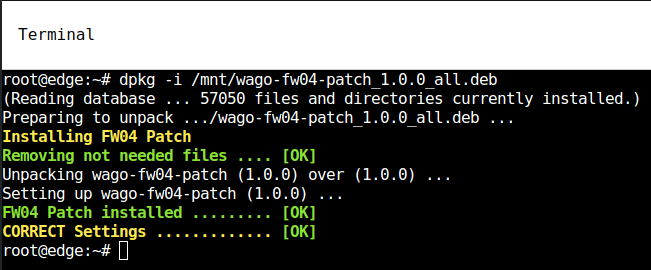
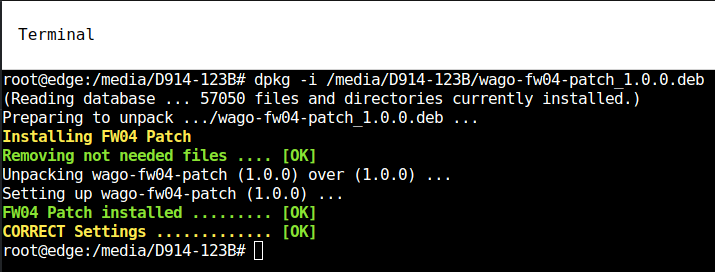
Updated PATCHES readme

Changed region(s): [[0.0, 0.237, 1.0, 0.9778], [0.0, 0.0889, 0.1536, 0.1481], [0.768, 0.4444, 0.7988, 0.4741]]

diff --git a/patches/README.md b/patches/README.md
@@ -7,47 +7,35 @@
 ## Patches
 | Patches | Description |
 | ------- | -------- |
-| wago-fw04-patch_1.0.0_all.deb | [JUMP](#fw04-01) |
+| wago-fw04-patch_1.0.0.deb | [JUMP](#fw04-01) |
 
 ###  How to install a patch:
 
 #### Offline-Mode
  Nedded:  USB disk drive
- 1. Check the latest patch for your firmware [PATCHES DIRECTORY](patches)
+ 1. Check the latest patch for your firmware
  2. Download the patch and copy it to the USB drive.
  3. Attach the USB drive to Edge Computer
  4. Open a browser and connect to Cockpit <pre><code>http://IP_OF_EDGE_COMPUTER:9090</code></pre>
  5. Login as:<pre> USER:root PASSWORD:YOUR_PASSWORD</pre>
  6. Click on Terminal
- 7. Find USB disk drive <pre><code>dmesg</code></pre>
-     You should find something like this:
+ 7. Find USB disk drive name
+    ``
+    cd /media
+    ls 
+    ``
+    Here you see the DEVICE-NAME of the USB disk drive.
+ 8. Installing the patch
      ```
-     [ 8122.243097] scsi 3:0:0:0: Direct-Access     SanDisk  Cruzer Blade     1.00 PQ: 0 ANSI: 6
-     [ 8122.245481] sd 3:0:0:0: Attached scsi generic sg1 type 0
-     [ 8122.267272] sd 3:0:0:0: [sdb] 120225792 512-byte logical blocks: (61.6 GB/57.3 GiB)
-     [ 8122.269240] sd 3:0:0:0: [sdb] Write Protect is off
-     [ 8122.269243] sd 3:0:0:0: [sdb] Mode Sense: 43 00 00 00
-     [ 8122.269601] sd 3:0:0:0: [sdb] Write cache: disabled, read cache: enabled, doesn't support DPO or FUA
-     [ 8122.276476]  sdb: sdb1
-     [ 8122.276716] sd 3:0:0:0: [sdb] Attached SCSI removable disk
-     ```
-     Here you see ``sdb1`` which is the partition
-  8. Mount the partition
-     ```
-     mount /dev/sdb1 /mnt
-     ```
-  9. Installing the patch
-     ```
-     dpkg -i /mnt/PATCH-FILE.deb
+     dpkg -i /media/DEVICE-NAME/PATCH-FILE.deb
      ```
      Example output:
      <p><img src="../images/example.png" alt="example-installation" title="Example-installation" /></p>
 
-  10. Clean up
-      ```
-      umount /mnt
-      ```
-      Detach the USB disk drive
+ 9. Reboot the system
+    ```
+    reboot
+    ```
 
 #### Online-Modus
  1. Open a browser and connect to Cockpit <pre><code>http://IP_OF_EDGE_COMPUTER:9090</code></pre>
@@ -56,7 +44,7 @@
  4. Download the patch
     ```
     cd /tmp
-    wget https://github.com/WAGO/edge-firmware/raw/refs/heads/main/patches/wago-fw04-patch_1.0.0_all.deb
+    wget https://github.com/WAGO/edge-firmware/raw/refs/heads/main/patches/wago-fw04-patch_1.0.0.deb
     ```
  4. Installing the patch
      ```
@@ -65,27 +53,46 @@
      Example output:
      <p><img src="../images/example.png" alt="example-installation" title="Example-installation" /></p>
 
-# Patch description
+ 5. Reboot the system
+    ```
+    reboot
+    ```
 
-## <a name="fw04-01"> wago-fw04-patch_1.0.0_all.deb
+# Patch Release Notes
+
+## <a name="fw04-01"> wago-fw04-patch_1.0.0.deb
 * This patch will correct the network names after a BIOS update
   
 
-* Detect which hardware version of **752-9800** is used
-```
-dmidecode -t system | grep Version
-```
-Output:
-```
-root@edge:~# dmidecode -t system | grep Version
-	Version: 4224040202
-```
+* Get "Product Info"
+  1. by checking the product label on Edge Computer
+     <p><img src="../images/product-info.png" alt="product-info" title="Product-info" /></p>
+
+  2. by terminal
+     ```
+     dmidecode -t system | grep Version
+     ```
+     Output:
+     ```
+     root@edge:~# dmidecode -t system | grep Version
+         Version: 4224040202
+     ```
+  3. HowToDecode
+
+     Example Version: 4224040202<br>
+
+     Divide every 2 digits:
+     | cw | y | FW-Version | HW-Version | BIOS-Version|
+     | :-: | :-:| :-: | :-: | :-: |
+     |42|24|04|02|02|
+
 
 * Compatibily Matrix
 
- | Device | Description |
- | ------ | ------ |
- | 752-94xx | Patch not needed! |
- | 752-9800 HW1 | Needed after BIOS Update |
- | 752-9800 HW2 | **Needed** |
- | 752-9813 | **Needed** |
+  | Device | Description |
+  | ------ | ------ |
+  | 752-940x | Patch not needed! |
+  | 752-9412 | **Needed** |
+  | 752-9800 HW1 | Needed if BIOS Version is >= N2.07 |
+  | 752-9800 HW2 | **Needed** |
+  | 752-9813 | **Needed** |
